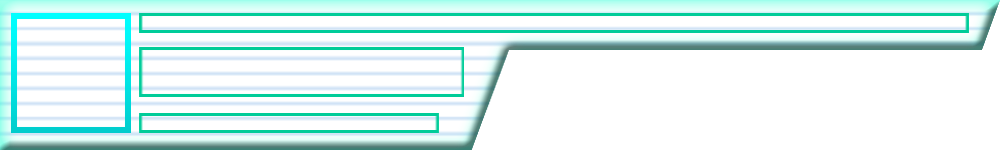
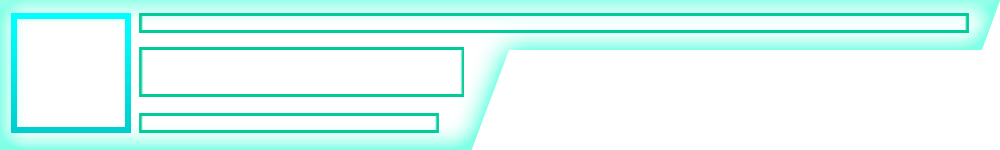
UI Update
HP, score and experience texts and bars now all use Tweens to Lerp

Changed region(s): [[0.0, 0.0, 1.0, 1.0], [0.0, 0.4267, 0.031, 0.4533]]

diff --git a/Assets/Scripts/UI/EXPBar.cs b/Assets/Scripts/UI/EXPBar.cs
@@ -3,6 +3,7 @@ using System.Collections.Generic;
 using UnityEngine;
 using UnityEngine.UI;
 using TMPro;
+using DG.Tweening;
 
 public class EXPBar : MonoBehaviour
 {
@@ -10,7 +11,7 @@ public class EXPBar : MonoBehaviour
     public int playerLevel = 1;
     private float baseLevelUpExperience = 200;
     private float experienceToNextLevel;
-    private float currentExp;
+    private int currentExperience;
 
     //UI
     [SerializeField]
@@ -18,13 +19,11 @@ public class EXPBar : MonoBehaviour
     [SerializeField]
     private TextMeshProUGUI experienceNumberText;
 
-    //Coroutine for exp bar lerping
-    Coroutine currentCoroutine;
-    float timeSinceModified = 0;
+    //Exp Tweener
+    int previousExperienceTarget;
+    Tween experienceTween;
     [SerializeField]
     private Image foregroundImage;
-    public float sensitivity = 0.01f;
-    public float lerpSpeed = 1f; // Seconds
 
     //Other Script References
     public UpgradeManager upgradeManager;
@@ -34,65 +33,56 @@ public class EXPBar : MonoBehaviour
     {
         experienceToNextLevel = baseLevelUpExperience;
         levelText.text = playerLevel.ToString();
-        experienceNumberText.text = $"{currentExp}/{experienceToNextLevel}";
+        experienceNumberText.text = $"{currentExperience}/{experienceToNextLevel}";
+
+        //This is just for tween initialization since I couldn't figure it out
+        experienceTween = DOTween.To(()=> currentExperience, x=> currentExperience = x, 0, 1);
     }
 
     public void AddExperience(int value)
-    {   
-        currentExp += value;
+    {     
+        int targetExperience = currentExperience + value;
 
-        float targetExperiencePercent = currentExp / experienceToNextLevel;
-
-        if (currentCoroutine != null)
-            StopCoroutine(currentCoroutine);
-        
-        currentCoroutine = StartCoroutine(UpdateImage(targetExperiencePercent));
-        
-    }
-
-    IEnumerator UpdateImage(float targetExperiencePercent)
-    {
-        float currentExperiencePercent = foregroundImage.fillAmount;
-        float startExperiencePercent = currentExperiencePercent;
-        timeSinceModified = 0f;
-
-        //Lerp to the new health percent
-        while (Mathf.Abs(currentExperiencePercent - targetExperiencePercent) > sensitivity)
+        if(experienceTween.IsActive())
         {
-            yield return new WaitForEndOfFrame();
-
-            timeSinceModified += Time.deltaTime;
-            currentExperiencePercent = Mathf.Lerp(startExperiencePercent, targetExperiencePercent, timeSinceModified / lerpSpeed);
-
-            //Break if a level up is detected
-            if (currentExperiencePercent >= 1)
-            {
-                LevelUp();
-                yield break;
-            }
-            
-            foregroundImage.fillAmount = currentExperiencePercent;
+            experienceTween.Kill();
+            targetExperience = previousExperienceTarget + value;
         }
 
-        //Set image to the new health amount
-        foregroundImage.fillAmount = targetExperiencePercent;
-        //Level up if cap is hit
-        if (targetExperiencePercent >= 1)
-            LevelUp();
+        experienceTween = DOTween.To(()=> currentExperience, x=> currentExperience = x, targetExperience, 1);
+        previousExperienceTarget = targetExperience;
+    }
+
+    private void Update()
+    {
+        //Runs every frame the tweener is alive
+        if(experienceTween.IsActive())
+        {
+            experienceNumberText.text = $"{currentExperience}/{experienceToNextLevel}";
+            foregroundImage.fillAmount = (float)currentExperience / (float)experienceToNextLevel;
+
+            if (currentExperience/experienceToNextLevel >= 1)
+            {
+                LevelUp();
+            }
+        }
     }
 
     void LevelUp()
     {
+        experienceTween.Kill();
+
         playerLevel++;
         upgradeManager.skillPoints++;
         levelText.text = playerLevel.ToString();
 
         //Carry over overflowing previous exp points
-        int newExperienceAmount = (int)(currentExp - experienceToNextLevel);
+        int experienceFromPreviousLevel = (int)(previousExperienceTarget - experienceToNextLevel);
 
         experienceToNextLevel = experienceToNextLevel + baseLevelUpExperience / 2;
-        currentExp = 0;
+        currentExperience = 0;
         foregroundImage.fillAmount = 0;
-        AddExperience(newExperienceAmount);
+
+        AddExperience(experienceFromPreviousLevel);
     }
 }

diff --git a/Assets/Scripts/UI/HealthBar.cs b/Assets/Scripts/UI/HealthBar.cs
@@ -2,20 +2,34 @@
 using System.Collections.Generic;
 using UnityEngine;
 using UnityEngine.UI;
+using TMPro;
 
 public class HealthBar : MonoBehaviour
 {
     public Image foregroundImage;
     public float sensitivity = 0.01f;
-    public float lerpSpeed = 1f; // Seconds
+    public float lerpSpeed = 0.3f; // Seconds
 
     Coroutine currentCoroutine;
     BasicPlayer playerRef;
     float timeSinceModified = 0;
+    public TextMeshProUGUI healthNumberText;
 
     void Start()
     {
         StartCoroutine(Initialize());
+    }
+
+    IEnumerator Initialize() {
+        while (playerRef == null) {
+            if (GameManager.Instance.playerController != null)
+                playerRef = GameManager.Instance.playerController.GetComponent<BasicPlayer>();
+
+            yield return null;
+        }
+
+        playerRef.statHandler.OnHealthChanged.AddListener(UpdateHealth);
+        UpdateHealth();
     }
 
     private void UpdateHealth()
@@ -43,23 +57,23 @@ public class HealthBar : MonoBehaviour
             currentHealthPercent = Mathf.Lerp(startHealthPercent, targetHealthPercent, timeSinceModified / lerpSpeed);
             
             foregroundImage.fillAmount = currentHealthPercent;
+
+            UpdateText();
         }
 
         //Set image to the new health amount
         foregroundImage.fillAmount = targetHealthPercent;
-        
+        UpdateText();
     }
 
-    IEnumerator Initialize() {
-        while (playerRef == null) {
-            if (GameManager.Instance.playerController != null)
-                playerRef = GameManager.Instance.playerController.GetComponent<BasicPlayer>();
+    public void UpdateText()
+    {
+        int displayedCurrentHealth = (int)Mathf.Ceil(playerRef.statHandler.CurrentHealth);
+        
+        if(displayedCurrentHealth < 0)
+            displayedCurrentHealth = 0;
 
-            yield return null;
-        }
-
-        playerRef.statHandler.OnHealthChanged.AddListener(UpdateHealth);
-        UpdateHealth();
+        healthNumberText.text = $"{displayedCurrentHealth}/{playerRef.statHandler.MaxHealth}";
     }
 
 }

diff --git a/Assets/Scripts/UI/ScoreManager.cs b/Assets/Scripts/UI/ScoreManager.cs
@@ -2,6 +2,7 @@
 using System.Collections.Generic;
 using UnityEngine;
 using TMPro;
+using DG.Tweening;
 
 public class ScoreManager : MonoBehaviour
 {
@@ -17,10 +18,17 @@ public class ScoreManager : MonoBehaviour
     [SerializeField]
     private TextMeshProUGUI scoreText;
 
+    //Score Tweener
+    Tween scoreTween;
+    int previousScoreTarget;
+
     // Start is called before the first frame update
     void Start()
     {
         StartCoroutine(Initialize());
+
+         //This is just for tween initialization since I couldn't figure it out
+        scoreTween = DOTween.To(()=> currentScore, x=> currentScore = x, 0, 1);
     }
 
     IEnumerator Initialize() {
@@ -40,11 +48,28 @@ public class ScoreManager : MonoBehaviour
 
     public void OnAddScore(int value, Vector3 pos)
     {
-        currentScore += value;
-        scoreText.text = $"Score: {currentScore}";
+        int targetScore = currentScore + value;
 
-        GameManager.Instance.playerScore = currentScore;
+        if(scoreTween.IsActive())
+        {
+            scoreTween.Kill();
+            targetScore = previousScoreTarget + value;
+        }
+
+        GameManager.Instance.playerScore = targetScore;
 
         experienceBar.AddExperience(value);
+
+        scoreTween = DOTween.To(()=> currentScore, x=> currentScore = x, targetScore, 1);
+        previousScoreTarget = targetScore;
+    }
+
+    private void Update()
+    {
+        //Runs every frame the tweener is alive
+        if(scoreTween.IsActive())
+        {
+            scoreText.text = $"Score: {currentScore}";
+        }
     }
 }
